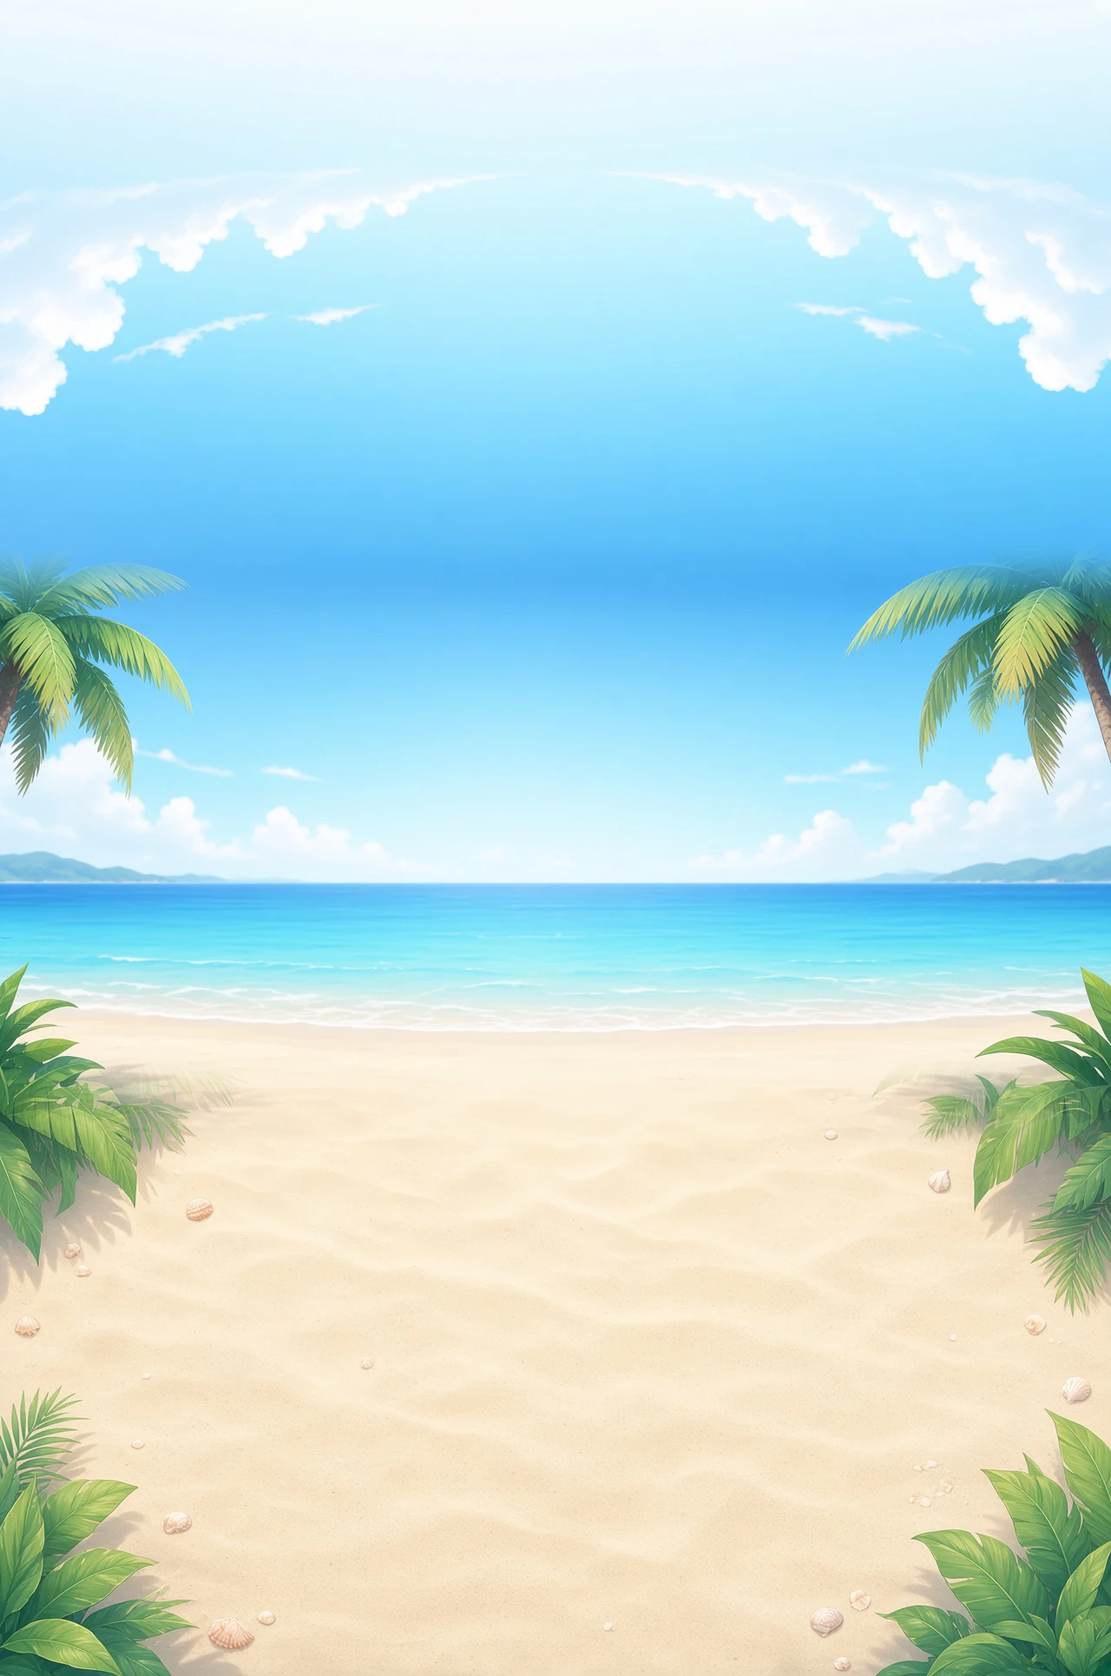
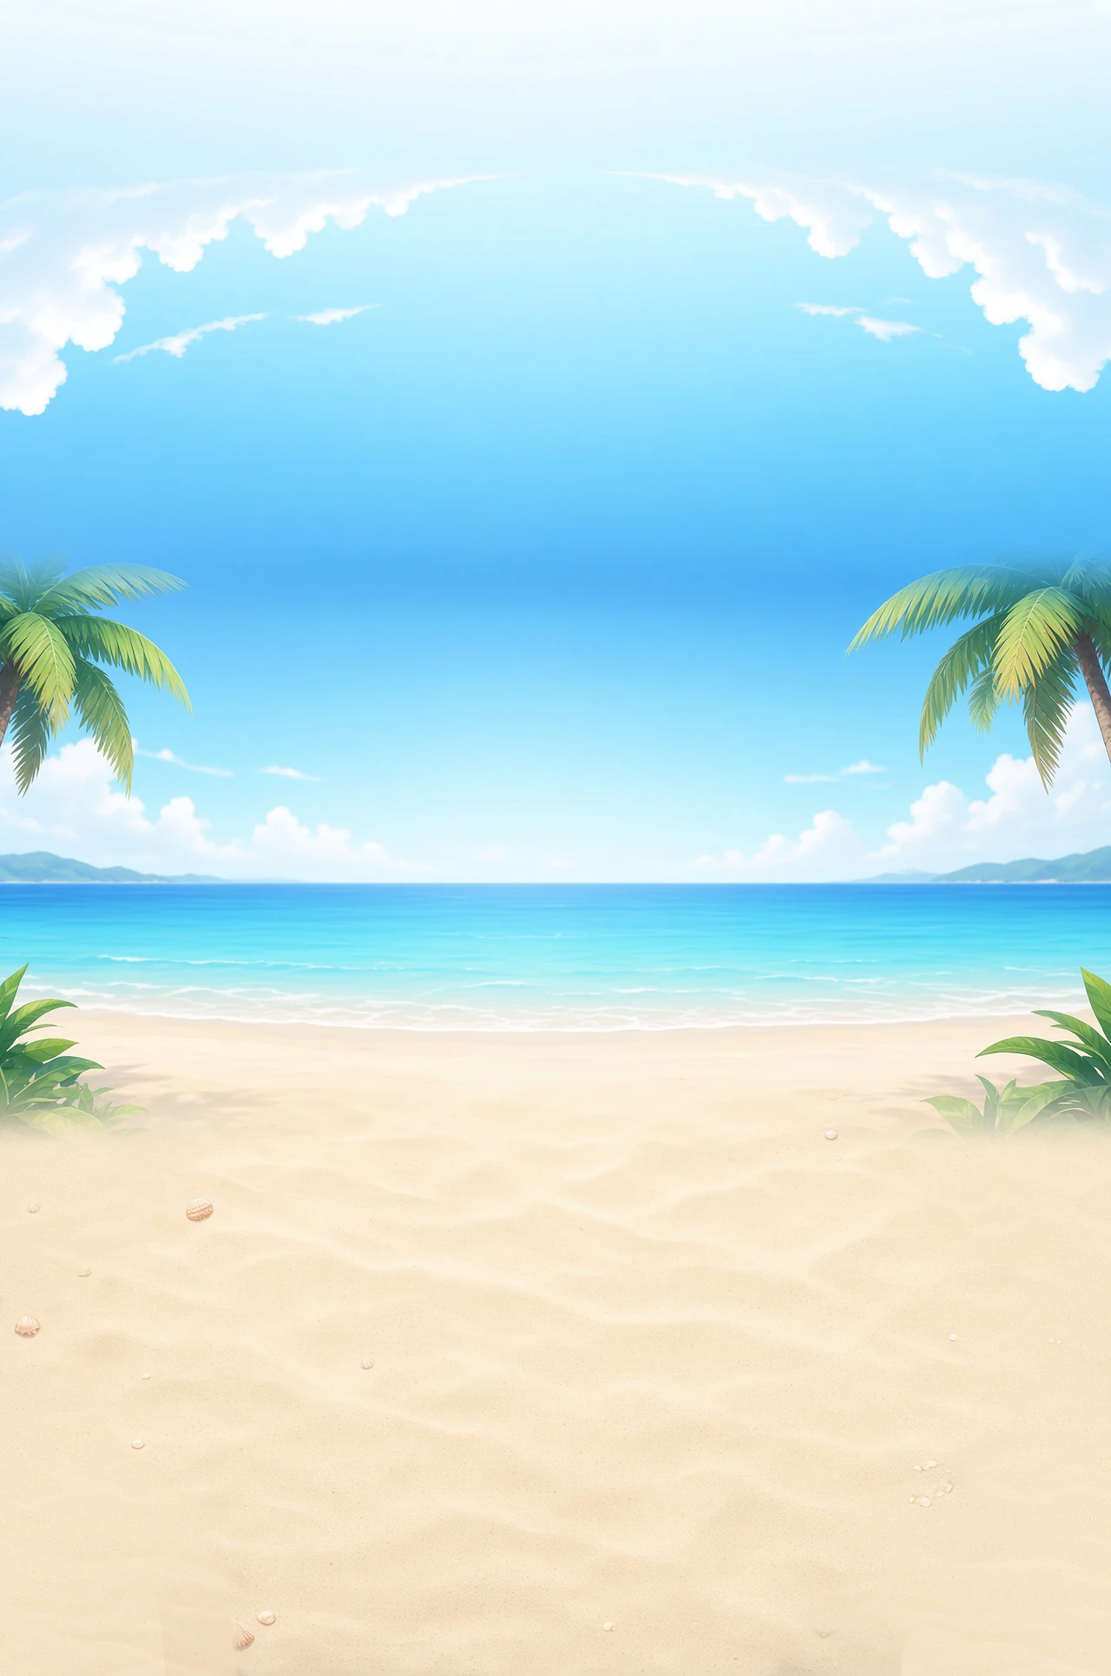
feat(scene): 海滩 — 滚轮缩放时背景跟随、脚下沙地与柔和接触影、沙地素材去草
- 背景随相机距离缩放: APP_CONFIG.beachScene.zoom { enabled, strength, minScale, maxScale }, 缩放中心 = 海平线 (computeStripCenter 新增 zoom 参数, 窗口始终在长条内, 含单测)
- 脚下沙地: APP_CONFIG.beachScene.ground (沙色径向羽化圆盘, 3D 地面), 脚没入画面才显示, 半身取景保持原样; 加强落影 / 接触影, 脚踩在沙上
- beach-strip.webp: 第三张图 (ground-bottom) 四角的草与叶影去掉, 重新拼接 (无接缝 / 黑边)
- docs/BEACH_SCENE.md 同步; e2e 场景数断言更新为 4

diff --git a/src/core/scene/characterShadow.ts b/src/core/scene/characterShadow.ts
@@ -24,6 +24,10 @@ export class CharacterShadowSystem {
   /** 海滩场景专用: 脚下一块柔和的圆形接触影 (没有地面网格时, 光靠方向光落影脚下会"飘")。其它场景不可见。 */
   private contactBlob: THREE.Mesh | null = null;
   private contactTex: THREE.CanvasTexture | null = null;
+  /** 海滩场景专用: 脚下一块边缘柔和淡出的沙色圆盘 (真实 3D 地面), 脚没入画面时才显示。参数见 APP_CONFIG.beachScene.ground。 */
+  private sandGround: THREE.Mesh | null = null;
+  private sandUniforms: Record<string, THREE.IUniform> | null = null;
+  private readonly tempFeetNdc = new THREE.Vector3();
   private beach = false;
   private shadowMaskTex: THREE.CanvasTexture | null = null;
   private _shadowEdgeFadeUniform: { value: number } | null = null;
@@ -129,6 +133,69 @@ export class CharacterShadowSystem {
     this.contactBlob.visible = false;
     this.group.add(this.contactBlob);
 
+    // 沙地: 径向羽化的沙色圆盘, 贴地 (略低于落影平面), 画在落影 / 接触影之下、角色之后; 不写深度, 只在 beach 显示
+    this.sandUniforms = {
+      uColor: { value: new THREE.Color(0xf2e1c5) },
+      uOpacity: { value: 1 },
+      uVis: { value: 0 },
+      uFeather: { value: 0.45 },
+      uRipple: { value: 0.05 },
+      uRadius: { value: 1.8 },
+      uComp: { value: 1 },
+    };
+    const sandMat = new THREE.ShaderMaterial({
+      uniforms: this.sandUniforms,
+      vertexShader: /* glsl */ `
+        varying vec2 vUv;
+        void main() { vUv = uv; gl_Position = projectionMatrix * modelViewMatrix * vec4(position, 1.0); }
+      `,
+      fragmentShader: /* glsl */ `
+        precision highp float;
+        uniform vec3 uColor; uniform float uOpacity; uniform float uVis; uniform float uFeather; uniform float uRipple;
+        uniform float uRadius; uniform float uComp;
+        varying vec2 vUv;
+        void main() {
+          vec2 q = (vUv - 0.5) * 2.0;           // −1..1, 圆盘边缘 r=1
+          float r = length(q);
+          float edge = 1.0 - smoothstep(uFeather, 1.0, r);
+          edge *= edge;                          // 平方: 边缘更柔, 与背景沙地无硬边
+          vec2 w = q * uRadius;                  // 世界米坐标 (相对脚底)
+          // 赛璐璐风的浅沙纹: 两组缓慢斜向条带叠加, 只做很轻的明暗
+          float rip = 0.5 + 0.25 * sin(w.x * 5.5 + w.y * 2.2 + sin(w.y * 3.1) * 1.3) + 0.25 * sin(w.y * 7.5 - w.x * 1.7 + sin(w.x * 2.3) * 1.1);
+          vec3 col = uColor * (1.0 - uRipple + uRipple * 2.0 * rip);
+          float a = edge * uOpacity * uVis;
+          if (a < 0.004) discard;
+          gl_FragColor = vec4(col * uComp, a);
+          #include <tonemapping_fragment>
+          #include <colorspace_fragment>
+        }
+      `,
+      transparent: true,
+      depthTest: true,
+      depthWrite: false,
+      // 与背景粒子相同: 颜色正常混合, 但不改目标 alpha (走后期时背景像素的 0.99 标记要保留, 否则 Bloom 会把亮沙地泛光洗白)
+      blending: THREE.CustomBlending,
+      blendEquation: THREE.AddEquation,
+      blendSrc: THREE.SrcAlphaFactor,
+      blendDst: THREE.OneMinusSrcAlphaFactor,
+      blendSrcAlpha: THREE.ZeroFactor,
+      blendDstAlpha: THREE.OneFactor,
+      polygonOffset: true,
+      polygonOffsetFactor: 1,
+      polygonOffsetUnits: 1,
+    });
+    this.sandGround = new THREE.Mesh(new THREE.PlaneGeometry(1, 1), sandMat);
+    this.sandGround.rotation.x = -Math.PI / 2;
+    this.sandGround.renderOrder = -20;
+    this.sandGround.frustumCulled = false;
+    // 曝光补偿: 线性色调映射会乘 exposure, 除回去让沙色与背景沙地一致 (同 beachBackdrop 的 uComp)
+    this.sandGround.onBeforeRender = (renderer) => {
+      const exp = renderer.toneMapping === THREE.LinearToneMapping ? renderer.toneMappingExposure : 1;
+      if (this.sandUniforms) this.sandUniforms.uComp.value = 1 / Math.max(0.2, exp || 1);
+    };
+    this.sandGround.visible = false;
+    this.group.add(this.sandGround);
+
     scene.add(this.group);
     this.applyTheme(theme);
   }
@@ -150,6 +217,16 @@ export class CharacterShadowSystem {
         m.opacity = theme === 'dark' ? APP_CONFIG.shadow.opacityDark : APP_CONFIG.shadow.opacityLight;
       }
       m.needsUpdate = true;
+    }
+    if (this.sandGround && this.sandUniforms) {
+      const g = APP_CONFIG.beachScene.ground;
+      this.sandGround.visible = this.beach && g.enabled;
+      (this.sandUniforms.uColor.value as THREE.Color).setHex(g.color);
+      this.sandUniforms.uOpacity.value = g.opacity;
+      this.sandUniforms.uFeather.value = g.featherStart;
+      this.sandUniforms.uRipple.value = g.rippleStrength;
+      this.sandUniforms.uRadius.value = g.radiusM;
+      this.sandGround.scale.set(g.radiusM * 2, g.radiusM * 2, 1);
     }
     if (this.contactBlob) {
       this.contactBlob.visible = this.beach;
@@ -180,6 +257,14 @@ export class CharacterShadowSystem {
     this.shadowPlane.position.x = this.feetWorld.x;
     this.shadowPlane.position.z = this.feetWorld.z;
     this.shadowPlane.position.y = APP_CONFIG.shadow.planeY;
+    if (this.sandGround?.visible && this.sandUniforms) {
+      this.sandGround.position.set(this.feetWorld.x, APP_CONFIG.shadow.planeY - 0.0004, this.feetWorld.z);
+      // 脚底进入画面才显示: 半身取景 (脚在画面外) 保持原样; 全身 / 俯视 (脚在画面里) 淡入
+      const g = APP_CONFIG.beachScene.ground;
+      this.tempFeetNdc.copy(this.feetWorld).project(camera);
+      const t = (this.tempFeetNdc.y - g.fadeOutNdcY) / Math.max(1e-3, g.fadeInNdcY - g.fadeOutNdcY);
+      this.sandUniforms.uVis.value = Math.min(1, Math.max(0, t));
+    }
     if (this.contactBlob?.visible) {
       this.contactBlob.position.set(this.feetWorld.x, APP_CONFIG.shadow.planeY + 0.0004, this.feetWorld.z);
     }
@@ -234,6 +319,11 @@ export class CharacterShadowSystem {
       this.contactBlob.geometry.dispose();
       (this.contactBlob.material as THREE.Material).dispose();
       this.group.remove(this.contactBlob);
+    }
+    if (this.sandGround) {
+      this.sandGround.geometry.dispose();
+      (this.sandGround.material as THREE.Material).dispose();
+      this.group.remove(this.sandGround);
     }
     this.contactTex?.dispose();
     if (this.shadowMaskTex) this.shadowMaskTex.dispose();

diff --git a/src/core/scene/beachBackdrop.ts b/src/core/scene/beachBackdrop.ts
@@ -25,6 +25,10 @@ export { BEACH_STRIP, computeStripCenter, coverViewport } from './beachStrip';
  *   (vw, vh) 是"cover"视口: 长条宽 1280、单张图高 720 内放得下的、与屏幕同宽高比的最大矩形 → 永不拉伸, 超出的部分居中裁掉。
  *   这是风格化的"远景视差": 背景滚动速度 (约 7 条带像素/度) 小于真实无穷远背景 (约 23), 换来 180° 俯仰都有内容可看。
  *
+ * ── 滚轮缩放 ──
+ *   相机前后距离变化时背景同步缩放 (推近放大 / 拉远缩小): 视口窗口按 1/zoom 缩放, zoom = (默认视距/当前视距)^strength (夹到 [minScale, maxScale]),
+ *   缩放中心是平视时的海平线 (c0 公式里 horizonY 与屏幕 horizonNdcY 的对应点不随 zoom 移动), 所以海平线不会因缩放上下跳。参数见 APP_CONFIG.beachScene.zoom。
+ *
  * ── 局部动态 (全在着色器 / GPU 粒子里, 零 CPU 每帧开销) ──
  *   海面波光 + 水面微扰 (仅 mask.R 海面区域) / 云横向漂移 (仅 mask.G 纯天空区域, 镜像边界) / 飘落花瓣与上升光点 (Points, 画在角色身后)。
  *   参数全在 APP_CONFIG.beachScene.dynamics; prefers-reduced-motion 或低帧率自动关闭。
@@ -206,6 +210,8 @@ export interface BeachSubject {
   target: THREE.Vector3;
   /** 角色髋部骨骼的世界 y; 没有模型时为 null (用默认对位)。 */
   hipY: number | null;
+  /** 当前 fov 下的默认取景视距 (m): 滚轮缩放时背景缩放倍率以它为 1 (见 APP_CONFIG.beachScene.zoom)。 */
+  refDistance: number;
 }
 
 /** 没有模型 / 没有髋部时的海平线屏幕位置 (NDC y): 默认取景下髋部约在屏幕中心下方 45% 半高。 */
@@ -466,7 +472,13 @@ export class BeachBackdrop {
 
     // 海平线对到髋部: 平视时髋部在屏幕上的 NDC y = −(target.y − hipY') / (dist·tan(fov/2))
     let horizonNdcY = DEFAULT_HORIZON_NDC_Y;
+    let zoom = 1;
     const subj = this.subject?.() ?? null;
+    if (subj && cfg.zoom.enabled && subj.refDistance > 0) {
+      // 滚轮缩放 = 相机前后距离变化: 推近 → 背景一起放大, 拉远 → 一起缩小 (缩放中心是海平线, 见 computeStripCenter)
+      const d = Math.max(0.3, camera.position.distanceTo(subj.target));
+      zoom = THREE.MathUtils.clamp(Math.pow(subj.refDistance / d, THREE.MathUtils.clamp(cfg.zoom.strength, 0, 1)), cfg.zoom.minScale, cfg.zoom.maxScale);
+    }
     if (subj && subj.hipY !== null && Number.isFinite(subj.hipY)) {
       // 髋部高度做低通 (呼吸 / 重心起伏不要带动整张背景抖)
       this.smoothHipY = this.smoothHipY === null ? subj.hipY : this.smoothHipY + (subj.hipY - this.smoothHipY) * Math.min(1, dt * 3 + 0.0);
@@ -475,7 +487,7 @@ export class BeachBackdrop {
       const anchorY = this.smoothHipY + cfg.scroll.horizonAboveHipsM;
       horizonNdcY = -(subj.target.y - anchorY) / (dist * half);
     }
-    const { center, vw, vh } = computeStripCenter({ p, aspect: camera.aspect, horizonNdcY, parallax: cfg.scroll.parallax });
+    const { center, vw, vh } = computeStripCenter({ p, aspect: camera.aspect, horizonNdcY, parallax: cfg.scroll.parallax, zoom });
     (this.quadUniforms.uView.value as THREE.Vector2).set(vw, vh);
     this.quadUniforms.uCenter.value = center;
 

diff --git a/src/types/config.ts b/src/types/config.ts
@@ -279,6 +279,45 @@ export interface BeachSceneConfig {
     /** 背景随俯仰的滚动幅度 (倍率)。范围 0.2 ~ 1。1 = 用满整条长条 (±89° 刚好滚到天空 / 沙地的另一端); 调小 = 滚得更少更"远" (但俯视极限看到的沙地也更少)。 */
     parallax: number;
   };
+  /**
+   * 滚轮缩放 (相机前后距离变化) 时背景跟着缩放: 推近 → 背景一起放大, 拉远 → 一起缩小。
+   * 缩放中心是平视时的海平线在屏幕上的位置 (髋部附近), 所以海平线不会因为缩放上下乱跳。
+   * 缩放倍率 = (默认取景视距 / 当前视距) ^ strength, 再夹到 [minScale, maxScale]。
+   */
+  zoom: {
+    /** 总开关。false = 背景大小固定 (滚轮只放大缩小角色)。 */
+    enabled: boolean;
+    /**
+     * 背景跟随程度。范围 0 ~ 1。0 = 背景完全不动 (像无限远); 1 = 背景与角色等比缩放 (像贴在角色身后的一堵墙)。
+     * 调大 = 推近时背景放大更多、全身时人物与场景比例更"锁定"; 调小 = 背景更远更稳, 但近景时人与景的比例变化更明显。建议 0.5 ~ 0.8。
+     */
+    strength: number;
+    /** 背景最小缩放倍率 (拉远极限)。范围 0.4 ~ 1。调小 = 拉远时能看到更宽的海面 (横屏受素材宽度限制, 最多缩到刚好铺满 1280 宽, 竖屏空间大)。 */
+    minScale: number;
+    /** 背景最大缩放倍率 (推近极限)。范围 1 ~ 3。素材只有 1280 宽, >2 开始明显发糊; 调大 = 近景背景更大更糊。 */
+    maxScale: number;
+  };
+  /** 脚下沙地 (真实的 3D 地面): 一块边缘柔和淡出的沙色圆盘, 铺在角色脚下, 让脚"踩"在沙上而不是悬在背景前。 */
+  ground: {
+    /** 总开关。false = 不画沙地 (只剩落影 / 接触影)。 */
+    enabled: boolean;
+    /** 沙地圆盘半径 (m)。范围 0.6 ~ 4。调大 = 脚下沙地铺得更开 (拉远 / 俯视时更明显); 调小 = 只在脚边一小圈。 */
+    radiusM: number;
+    /** 沙色 (要和 beach-strip 里的沙地同色, 俯视时才能与背景无缝衔接)。 */
+    color: number;
+    /** 沙地整体不透明度。范围 0 ~ 1。调小 = 与背景融合得更淡; 1 = 中心完全盖住背景。 */
+    opacity: number;
+    /** 沙纹明暗幅度。范围 0 ~ 0.2。0 = 纯色; 调大 = 沙纹更明显 (>0.12 开始像条纹)。 */
+    rippleStrength: number;
+    /** 圆盘从多大半径(占 radiusM 的比例)开始向外淡出。范围 0.2 ~ 0.9。调小 = 过渡带更宽更柔; 调大 = 边缘更清晰。 */
+    featherStart: number;
+    /**
+     * 脚没入画面时才显示沙地: 脚底在屏幕上的 NDC y 低于 fadeOutNdcY 时完全隐藏 (半身取景脚在画面外, 保持原样、不穿帮),
+     * 高于 fadeInNdcY 时完全显示, 之间线性过渡。范围 −2 ~ 0.5, 且 fadeOutNdcY < fadeInNdcY。
+     */
+    fadeOutNdcY: number;
+    fadeInNdcY: number;
+  };
   /** 局部动态。总开关 enabled=false 时背景完全静止、不画粒子 (波光停在一个固定好看的帧)。 */
   dynamics: {
     /** 总开关。关闭后只剩静态背景, 零额外动态开销。 */

diff --git a/src/core/scene/beachStrip.ts b/src/core/scene/beachStrip.ts
@@ -24,6 +24,11 @@ export interface StripCenterInput {
   horizonNdcY: number;
   /** 背景滚动幅度倍率 (APP_CONFIG.beachScene.scroll.parallax)。 */
   parallax?: number;
+  /**
+   * 背景缩放倍率 (滚轮推近 > 1 = 背景放大, 拉远 < 1 = 缩小), 缩放中心 = 平视时的海平线。默认 1。
+   * 会被夹到"视口不超出长条"的下限 (横屏最多缩到刚好铺满 1280 宽)。
+   */
+  zoom?: number;
 }
 
 /** cover 视口: 长条里与屏幕同宽高比、放得进一张 1280×720 的最大矩形。 */
@@ -37,8 +42,12 @@ export function coverViewport(aspect: number): { vw: number; vh: number } {
  * 屏幕中心对应的长条行号 c(p) (纯函数, 有单测)。保证 p ∈ [−1,1] 时 [c−vh/2, c+vh/2] ⊂ [0, H], 且 c 对 p 单调不增。
  */
 export function computeStripCenter(inp: StripCenterInput): { center: number; vw: number; vh: number } {
-  const { vw, vh } = coverViewport(inp.aspect);
+  const cover = coverViewport(inp.aspect);
   const H = BEACH_STRIP.height;
+  // 缩放: 视口按 1/zoom 缩放 (推近 = 取更小的窗口 = 画面放大)。下限保证窗口放得进长条 (宽不超 1280, 高不超 96% 长条高)。
+  const zMin = Math.max(cover.vw / BEACH_STRIP.width, cover.vh / (H * 0.96));
+  const zoom = Math.max(zMin, Number.isFinite(inp.zoom) && (inp.zoom as number) > 0 ? (inp.zoom as number) : 1);
+  const vw = cover.vw / zoom, vh = cover.vh / zoom;
   const par = Math.min(1, Math.max(0.2, inp.parallax ?? 1));
   const p = Math.min(1, Math.max(-1, Number.isFinite(inp.p) ? inp.p : 0));
   const full0 = vh / 2, full1 = H - vh / 2; // 视口顶 / 底恰好贴边时的中心行

diff --git a/src/core/scene/__tests__/beachStrip.test.ts b/src/core/scene/__tests__/beachStrip.test.ts
@@ -63,4 +63,21 @@ describe('beach strip mapping', () => {
     const r2 = computeStripCenter({ p: 9, aspect: 1, horizonNdcY: -0.3 });
     expect(r2.center - r2.vh / 2).toBeGreaterThanOrEqual(-1e-6);
   });
+
+  it('缩放: 任意 zoom (0.3 ~ 4) 也不会采样出长条之外; 推近窗口更小、拉远窗口更大 (有上限); 海平线对位点不随缩放移动', () => {
+    for (const aspect of ASPECTS) for (const horizonNdcY of HORIZONS) for (const zoom of [0.3, 0.6, 1, 1.8, 4]) for (const p of PS) {
+      const { center, vh, vw } = computeStripCenter({ p, aspect, horizonNdcY, zoom });
+      expect(center - vh / 2).toBeGreaterThanOrEqual(-1e-6);
+      expect(center + vh / 2).toBeLessThanOrEqual(BEACH_STRIP.height + 1e-6);
+      expect(vw).toBeLessThanOrEqual(BEACH_STRIP.width + 1e-6);
+    }
+    const base = computeStripCenter({ p: 0, aspect: 600 / 1080, horizonNdcY: -0.45 });
+    const near = computeStripCenter({ p: 0, aspect: 600 / 1080, horizonNdcY: -0.45, zoom: 1.6 });
+    const far = computeStripCenter({ p: 0, aspect: 600 / 1080, horizonNdcY: -0.45, zoom: 0.6 });
+    expect(near.vh).toBeLessThan(base.vh);
+    expect(far.vh).toBeGreaterThan(base.vh);
+    // 推近 / 不缩放: 平视时海平线仍落在屏幕 horizonNdcY (缩放中心就是海平线): horizonY = center − ndcY·vh/2
+    // (拉远到极限时可用行程变小, 单调性约束会让海平线略偏离髋部, 但仍不露边, 上面已验证)
+    for (const r of [base, near]) expect(r.center + 0.45 * r.vh / 2).toBeCloseTo(BEACH_STRIP.horizonY, 6);
+  });
 });

diff --git a/src/config.ts b/src/config.ts
@@ -362,6 +362,10 @@ export const APP_CONFIG = {
       mask: '/scene/beach/beach-mask.webp',
     },
     scroll: { horizonAboveHipsM: 0.04, parallax: 1.0 },
+    // 滚轮缩放时背景跟随: 倍率 = (默认视距/当前视距)^strength, 夹到 [minScale, maxScale]; 缩放中心 = 海平线 (髋部附近)
+    zoom: { enabled: true, strength: 0.65, minScale: 0.6, maxScale: 1.8 },
+    // 脚下沙地: 半径/颜色/淡出; 脚没入画面(fadeIn/OutNdcY)时才显示, 半身取景不受影响
+    ground: { enabled: true, radiusM: 1.8, color: 0xf2e1c5, opacity: 0.96, rippleStrength: 0.05, featherStart: 0.45, fadeOutNdcY: -1.35, fadeInNdcY: -0.9 },
     dynamics: {
       enabled: true,
       respectReducedMotion: true,
@@ -375,10 +379,10 @@ export const APP_CONFIG = {
       hemiGround: 0xf3e6d3,
       dirColor: 0xfffbf0,
       shadowColor: 0x8a6f78,
-      shadowOpacity: 0.26,
-      contactColor: 0xa88a80,
-      contactOpacity: 0.34,
-      contactSizeM: 0.85,
+      shadowOpacity: 0.34,
+      contactColor: 0x8f6f66,
+      contactOpacity: 0.55,
+      contactSizeM: 0.9,
     },
   } as BeachSceneConfig,
   lights: {

diff --git a/src/core/vrmEngine.ts b/src/core/vrmEngine.ts
@@ -655,7 +655,7 @@ export class VRMEngine {
       const hips = this.currentVRM?.humanoid?.getNormalizedBoneNode('hips');
       let hipY: number | null = null;
       if (hips) { hips.getWorldPosition(this.tempBeachHip); hipY = this.tempBeachHip.y; }
-      return { target: this.controls.target, hipY };
+      return { target: this.controls.target, hipY, refDistance: getDefaultCameraDistance(this.camera.fov) };
     });
     this.beachBackdrop.setOnAssetsReady(() => { if (this.canvas) this.renderFrameNow(); });
 

diff --git a/docs/BEACH_SCENE.md b/docs/BEACH_SCENE.md
@@ -9,7 +9,9 @@
   - 平视时海平线对齐角色**髋部**（`scroll.horizonAboveHipsM` 微调）；
   - 俯仰到 ±89° 时采样窗口正好贴到竖条顶 / 底，不会露边 / 黑边；
   - 映射保证单调，窗口永远落在竖条内（任意宽高比，包括 600×1080 竖屏）。
+- **滚轮缩放时背景跟随**（`APP_CONFIG.beachScene.zoom`）：相机前后距离变化时，背景同步缩放——推近放大、拉远缩小。倍率 = (默认取景视距 / 当前视距)^`strength`，夹到 `[minScale, maxScale]`（默认 0.65 / 0.6 / 1.8）；缩放中心是平视时的海平线（髋部附近），海平线不会因缩放上下跳。实现是把采样窗口按 1/zoom 缩放（`computeStripCenter` 的 `zoom` 参数），窗口始终落在竖条内；横屏宽度已用满 1280 时无法再缩小，只能放大。`strength=0` 背景不跟随，`1` 与角色等比缩放。
 - 竖条由 `scripts/build-beach-strip.mjs` 生成（需要 `magick` + `cwebp`）：天空（垂直翻转，使淡色端接到主景）→ 主景 → 沙地，接缝各做 100~120px 渐变；同时生成 `beach-mask.webp`（R = 海面、G = 纯天空 / 云区）供 shader 限定动态范围。产物在 `public/scene/beach/`，缓存头与 `/vrm/*` 一致（`public/_headers` 的 `/scene/*`）。
+- 第三张源图（沙地）已去掉四角的草和叶影，只剩纯沙地与贝壳，风格与另两张一致（明亮、赛璐璐、高调日光）；拼接后沙地区域四边无草、无黑边、无接缝。
 - 源图是 1280×720，分辨率偏低；竖屏 cover 只用到中间约 31% 宽度，高 DPR 屏会有放大的柔化感（没有做锐化 / 假细节）。
 
 ## 局部动态（`APP_CONFIG.beachScene.dynamics`）
@@ -24,5 +26,7 @@
 
 - `StudioLighting.applyTheme('beach')`：只改半球光的天 / 地颜色和平行光颜色（天空偏冷奶白、地面反射偏奶油沙色、主光略暖），**强度与角色材质不变**；离开 beach 恢复原值。
 - `CharacterShadow.applyTheme('beach')`：ShadowMaterial 颜色改成匹配沙地的暖紫褐并开软阴影；脚下另加一个**柔和接触影子**（径向渐变平面，跟随脚位置，只在 beach 显示），因为这个场景没有地面网格。
+- **脚下沙地**（`APP_CONFIG.beachScene.ground`）：脚下铺一块真实的 3D 沙色圆盘（半径 `radiusM`，边缘径向羽化淡出，带很轻的沙纹），颜色与背景沙地一致，所以全身时脚是踩在沙上、俯视时圆盘与背景沙地无缝衔接。圆盘画在落影 / 接触影之下、角色之后。只有脚底进入画面（NDC y 高于 `fadeOutNdcY`，到 `fadeInNdcY` 完全显示）才显示——半身取景脚在画面外，画面与之前完全一致。
+- 落影与接触影：地面落影（`shadowColor` / `shadowOpacity`）与脚下接触影（`contactColor` / `contactOpacity` / `contactSizeM`）调到足以在沙上"压"出脚印般的暖褐软影，不用纯黑。
 - PostFX：背景 quad 写入的 alpha 为 0.99 作标记，Bloom 高通跳过这类像素（避免亮沙地 / 天空被泛光洗白），OutputPass 再把 alpha 还原为 1。其他场景不受影响。
 - 其他场景：`lineworkWorld` 把 `beach` 与 `transparent` 一样当“无线稿世界”处理（背景 null、线稿隐藏），背景由 backdrop 负责。
